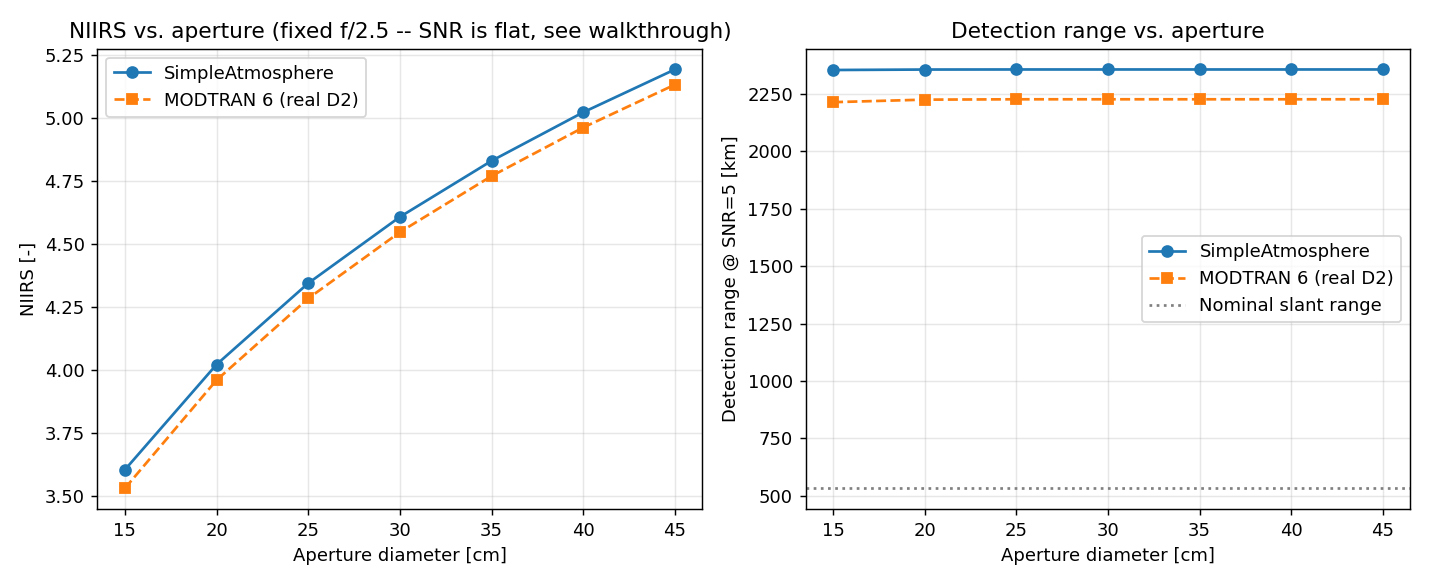
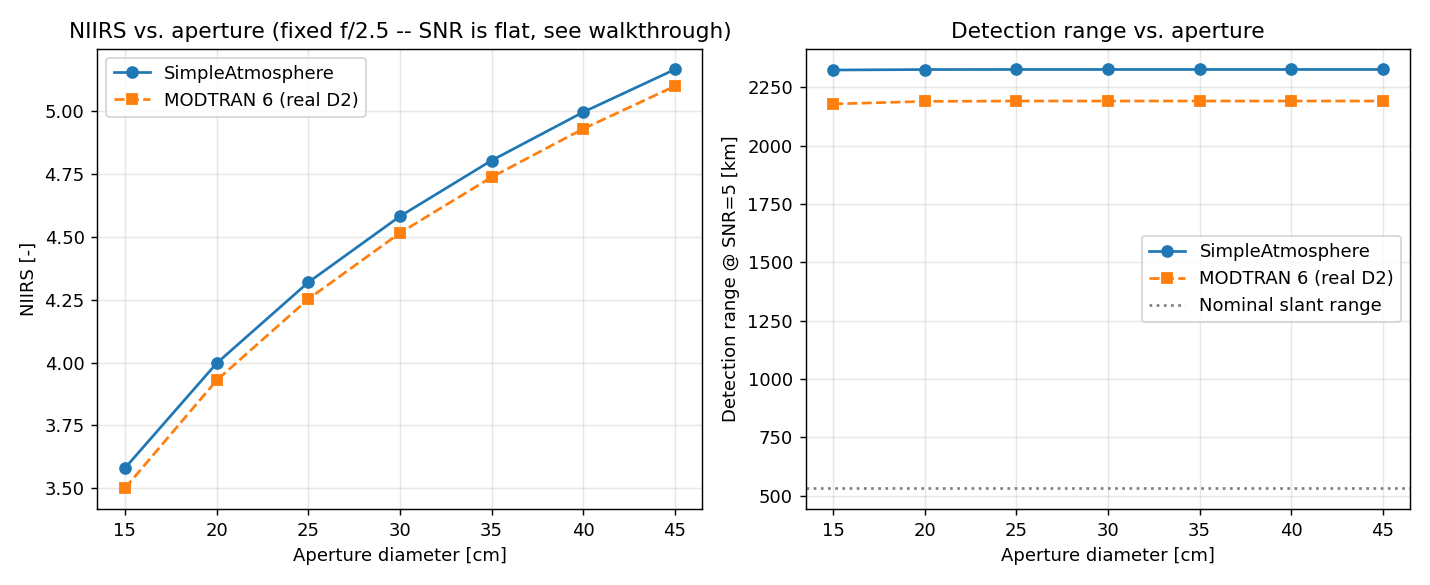
scenarios(1.1): warm optics declared, analysis re-derived (CU-380)
`optics.transmission_scalar = 0.85` lumps the train into one transmittance,
whose Kirchhoff emissivity is structurally zero — the scenario's own optics
could not emit. Declared instead as the two mirrors this telescope physically
has, R = sqrt(0.85) = 0.921954 each at 280 K (LEO bus-mounted class), so net
scene throughput is unchanged by construction: tau is bit-identical in both
atmosphere columns (0.4594 / 0.4277).

Measured: warm optics contribute 3.031538e5 e- of background — 13.3 % of the
SimpleAtmosphere background, 16.6 % of the MODTRAN one. The MODTRAN column has
the weaker scene term, so the identical warm term costs it more SNR (-4.4 %
vs -3.6 %), which widens the parametric-vs-MODTRAN SNR spread from ~9 % to
~10 % without either atmosphere changing.

At 30 cm: SNR 1001.55 -> 965.71 (simple), 916.18 -> 875.45 (MODTRAN);
NEDT 0.0251 -> 0.0260 K / 0.0266 -> 0.0278 K; NIIRS 4.61 -> 4.58 / 4.55 ->
4.52; detection range 2357.2 -> 2326.8 km / 2227.3 -> 2191.6 km.

The warm term is aperture-invariant (3.031538e5 e- at 15/30/45 cm, measured) —
same fixed-f/# etendue argument as the existing flat-SNR note — so the sweep's
flatness survives; the walkthrough now says why.

Walkthrough re-authored in its vintage convention, GUI baseline regenerated
(emit_gui_yaml.py 1.1), figure regenerated from the real D2 set.

diff --git a/scenarios/01_sarah_systems_engineer/1.1_mwir_maritime_surveillance/scripts/run_mwir_maritime_surveillance.py b/scenarios/01_sarah_systems_engineer/1.1_mwir_maritime_surveillance/scripts/run_mwir_maritime_surveillance.py
@@ -159,8 +159,29 @@ def make_config(
         "optics": {
             "aperture_diameter_m": aperture_m,
             "focal_length_m": aperture_m * F_NUMBER,
-            "transmission_scalar": 0.85,
+            # Warm optics declared rather than lumped (CU-380). Two reflective
+            # surfaces at R = sqrt(0.85) = 0.921954 reproduce the net throughput this
+            # scenario previously declared as a scalar, so the SCENE signal is
+            # unchanged; each mirror now emits at its Kirchhoff eps = 1 - R =
+            # 0.078046. 280 K is the LEO bus-mounted starting point from the
+            # platform-class convention (owner-ratified 2026-09-30).
         },
+        "optical_elements": [
+            {
+                "name": "M1",
+                "transfer_mode": "REFLECTIVE",
+                "kind": "MIRROR",
+                "reflectance": 0.921954,
+                "temperature_K": 280.0,
+            },
+            {
+                "name": "M2",
+                "transfer_mode": "REFLECTIVE",
+                "kind": "MIRROR",
+                "reflectance": 0.921954,
+                "temperature_K": 280.0,
+            },
+        ],
         "detector": {
             "pixel_pitch_x_um": PIXEL_PITCH_UM,
             "pixel_pitch_y_um": PIXEL_PITCH_UM,

diff --git a/scenarios/01_sarah_systems_engineer/1.1_mwir_maritime_surveillance/walkthrough.md b/scenarios/01_sarah_systems_engineer/1.1_mwir_maritime_surveillance/walkthrough.md
@@ -67,7 +67,22 @@ Two residual caveats:
 
 ## Results (aperture = 30 cm, mid-sweep; real MODTRAN 6, D2 run set)
 
-*Numbers refreshed 2026-09-01 from the unmodified runner (previous vintage
+*Numbers re-authored 2026-10-03 (previous vintage 2026-09-01). **CU-380**: the
+runner declared `optics.transmission_scalar = 0.85`, which lumps the entire
+train into one transmittance and so leaves nothing to emit — the Kirchhoff
+emissivity of a scalar is structurally zero. It now declares the two mirrors
+this telescope always physically had, at R = √0.85 = 0.921954 each, so the net
+scene throughput is unchanged *by construction*: τ̄ is bit-identical in both
+columns (0.4594 and 0.4277), and each surface emits at its own
+ε = 1 − R = 0.078046 at 280 K — the LEO bus-mounted class temperature
+(owner-ratified 2026-09-30). This is the first vintage in which the scenario's
+own optics contribute background: 3.03 × 10⁵ e⁻, which is 13.3 % of the
+SimpleAtmosphere background and 16.6 % of the MODTRAN one. The MODTRAN column
+has the smaller scene term, so the identical warm-optics term is a larger share
+of its background and costs it more SNR (−4.4 % vs −3.6 %). Every metric moved;
+no conclusion in the comparison did.*
+
+*Prior vintage, 2026-09-01, from the then-unmodified runner (previous vintage
 2026-08-30). One mover, and only in the SimpleAtmosphere column. **CU-336**
 corrected the gas fit's grid convention: `floor_add` had been subtracting a
 band optical depth measured on a uniform-λ grid from one measured on MODTRAN's
@@ -102,10 +117,10 @@ under CU-321 (SNR 1152.37 → 980.55) and the MODTRAN column under CU-316
 
 | Metric | SimpleAtmosphere | MODTRAN 6 (real D2) |
 |--------|-------------------|----------------------|
-| SNR [-] | 1001.55 | 916.18 |
-| NEDT [K] | 0.0251 | 0.0266 |
-| NIIRS [-] | 4.61 | 4.55 |
-| Detection range @ SNR=5 [km] | 2357.2 | 2227.3 |
+| SNR [-] | 965.71 | 875.45 |
+| NEDT [K] | 0.0260 | 0.0278 |
+| NIIRS [-] | 4.58 | 4.52 |
+| Detection range @ SNR=5 [km] | 2326.8 | 2191.6 |
 | In-band transmittance [-] | 0.4594 | 0.4277 |
 
 - **SimpleAtmosphere agrees with MODTRAN to ~7% on transmittance for this
@@ -113,10 +128,10 @@ under CU-321 (SNR 1152.37 → 980.55) and the MODTRAN column under CU-316
   slightly *more* transparent). The earlier ~45% over-absorption was removed by
   the CU-155/161 water-ladder recalibration — scenario 6.2 is the dedicated
   validation, which collapsed the τ residuals across all six profiles ~6× to a
-  uniform −5…−11% band. Detection range now differs by +5.8% (2357.2 vs
-  2227.3 km), where the pre-recalibration model understated it by ~25%.
-- **SNR: the parametric model reads ~9% high** (1001 vs 916). Its history in
-  four steps: it read ~17% *low* before CU-224 (no down-looking path emission
+  uniform −5…−11% band. Detection range now differs by +6.2% (2326.8 vs
+  2191.6 km), where the pre-recalibration model understated it by ~25%.
+- **SNR: the parametric model reads ~10% high** (966 vs 875). Its history in
+  five steps: it read ~17% *low* before CU-224 (no down-looking path emission
   at all), swung to ~26% high when CU-224 added that emission at the column's
   near-surface temperature, settled at ~7% high once CU-321 resolved the
   emission temperature in altitude — a 100 km MWIR column emits mostly from
@@ -124,9 +139,13 @@ under CU-321 (SNR 1152.37 → 980.55) and the MODTRAN column under CU-316
   CU-324 made the downwelling exponent geometric, which lifts the reflected-sky
   term of this ρ = 0.73 steel hull — for a hull this reflective the sky term is
   the larger of its two signal contributions in this band, which is why every
-  downwelling change above shows up in SNR. The remaining gap is the parametric model being
+  downwelling change above shows up in SNR. CU-380 then widened the spread from
+  ~9% to ~10% without touching either atmosphere: giving the train its real warm
+  mirrors adds the *same* background to both columns, which is the larger
+  fractional insult to whichever column has the weaker scene term — the MODTRAN
+  one. The remaining gap is the parametric model being
   marginally the more transparent of the two, and its noise floor is
-  correspondingly lower (NEDT 0.0251 vs 0.0266 K). τ, SNR, and range still do
+  correspondingly lower (NEDT 0.0260 vs 0.0278 K). τ, SNR, and range still do
   not move together — quote the metric the decision needs.
 - **This is the entire point of scenario 1.1's original gap**: before
   `Tape7Reader`/CU-066, RADIANT had no way to *consume* a colleague's
@@ -141,11 +160,15 @@ under CU-321 (SNR 1152.37 → 980.55) and the MODTRAN column under CU-316
   f/# fixed at 2.5, so focal length scales with aperture. At fixed f/#,
   per-pixel étendue — and thus photon flux for both the sub-pixel target
   and the extended ocean background — is invariant with aperture. The
-  aperture benefit shows up entirely as resolution: NIIRS rises from 3.53
-  to 5.13 (real D2) as the diffraction-limited PSF shrinks. A genuine "SNR from a
+  aperture benefit shows up entirely as resolution: NIIRS rises from 3.50
+  to 5.10 (real D2) as the diffraction-limited PSF shrinks. A genuine "SNR from a
   bigger telescope" trade needs a fixed-focal-length (varying f/#) sweep,
   not a fixed-f/# aperture sweep — worth remembering for the next
-  aperture trade study.
+  aperture trade study. The warm-optics background CU-380 added obeys the same
+  invariance for the same reason — it reaches the detector through that same
+  per-pixel étendue — so it is 3.031538 × 10⁵ e⁻ at every aperture in the sweep
+  (measured, 15/30/45 cm identical to seven figures) and does not disturb the
+  flatness it rides on.
 - **Detection range is a Beer-Lambert point-source extrapolation**, not a
   full-chain re-evaluation at each range — it assumes the extinction
   coefficient measured at 532 km holds out to ~2240–2420 km, which is
